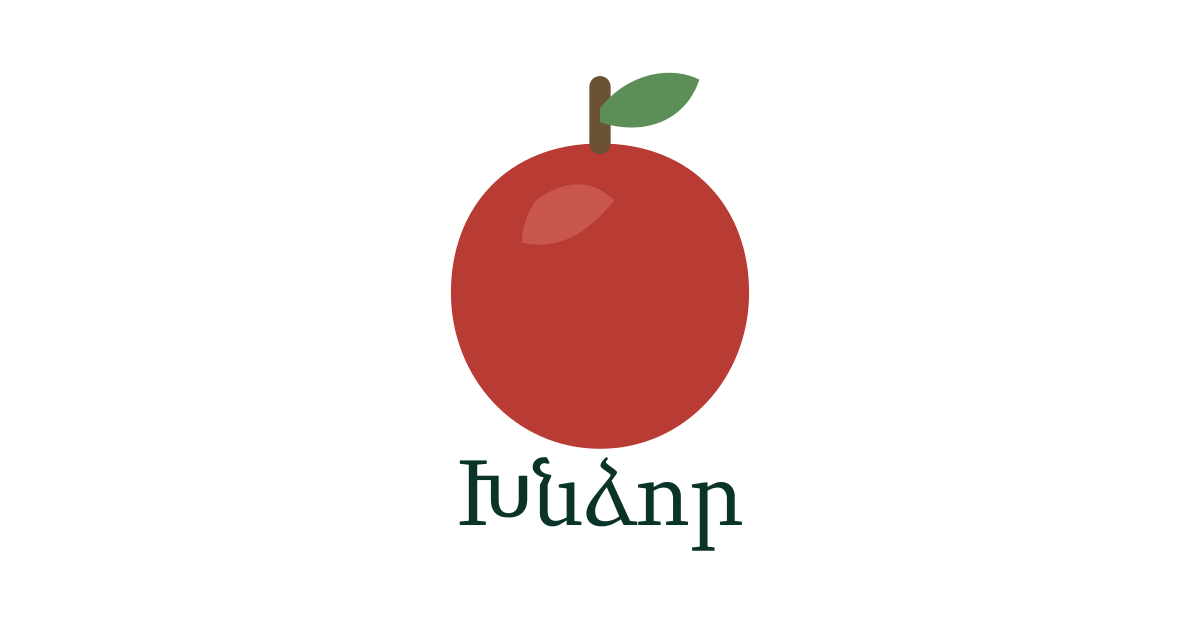
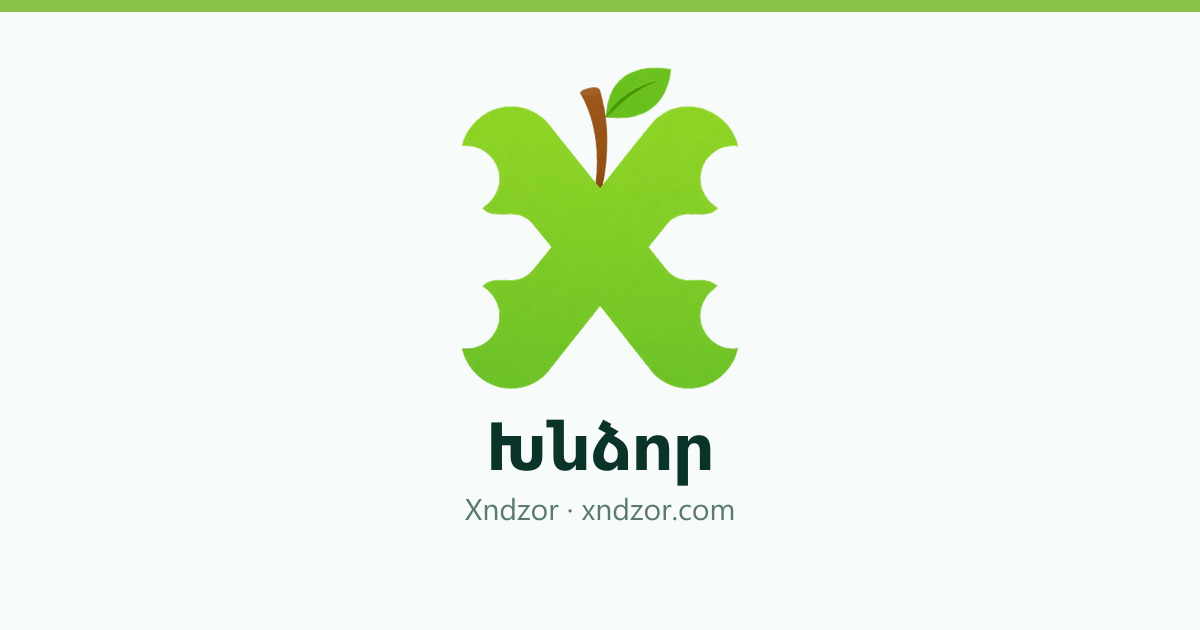
Replace remaining whole-apple brand marks and refresh OG share image.
Use the light-green bitten-X logo across chrome surfaces and regenerate og.png so Telegram/link previews match the new brand.

Changed region(s): [[0.37, 0.0905, 0.6475, 0.8746], [0.0, 0.0, 1.0, 0.0302]]

diff --git a/src/app/xndzor.css b/src/app/xndzor.css
@@ -307,9 +307,16 @@
 }
 
 .xndzor-apple {
-  font-size: 2rem;
-  display: block;
+  display: flex;
+  justify-content: center;
   margin-bottom: 0.35rem;
+}
+
+.xndzor-apple-logo {
+  width: 2.5rem;
+  height: 2.5rem;
+  object-fit: contain;
+  display: block;
 }
 
 .xndzor-hero-title {
@@ -1213,8 +1220,14 @@
   border-radius: 50%;
   background: rgba(255, 255, 255, 0.95);
   border: 2px solid color-mix(in srgb, var(--color-harvest-gold) 45%, transparent);
-  font-size: 1.1rem;
   box-shadow: 0 4px 14px rgba(10, 40, 35, 0.1);
+}
+
+.wtb-bridge-logo {
+  width: 1.55rem;
+  height: 1.55rem;
+  object-fit: contain;
+  display: block;
 }
 
 .home-trust-banner.is-in .wtb-bridge-core {
@@ -2008,8 +2021,14 @@
   height: 2.5rem;
   border-radius: 50%;
   background: rgba(244, 251, 248, 0.95);
-  font-size: 1.15rem;
   box-shadow: 0 4px 16px rgba(10, 40, 35, 0.25);
+}
+
+.gbb-hub-logo {
+  width: 1.55rem;
+  height: 1.55rem;
+  object-fit: contain;
+  display: block;
 }
 
 .gbb-savings {
@@ -6003,8 +6022,12 @@
   }
 
   .xndzor-apple {
-    font-size: 1.75rem;
     margin-bottom: 0.3rem;
+  }
+
+  .xndzor-apple-logo {
+    width: 2.15rem;
+    height: 2.15rem;
   }
 
   .xndzor-hero-title {

diff --git a/src/components/Header.tsx b/src/components/Header.tsx
@@ -4,7 +4,7 @@ import { useEffect, useState } from "react";
 import { useLocale, useTranslations } from "next-intl";
 import { Link, usePathname } from "@/i18n/navigation";
 import { signOut, useSession } from "next-auth/react";
-import Image from "next/image";
+import { BrandLogo } from "@/components/BrandLogo";
 import { CategoriesMegaMenu } from "@/components/CategoriesMegaMenu";
 import { LanguageDropdown } from "@/components/LanguageDropdown";
 import { ThemeToggle } from "@/components/ThemeToggle";
@@ -99,14 +99,7 @@ export function Header() {
         <div className="header-inner header-brand-row">
           <Link href="/" className="logo">
             <span className="logo-mark" aria-hidden>
-              <Image
-                src="/logo-xndzor.png"
-                alt=""
-                width={48}
-                height={48}
-                className="logo-mark-img"
-                priority
-              />
+              <BrandLogo size={48} className="logo-mark-img" priority />
             </span>
             <span className="logo-text">
               <strong>{brand("brand")}</strong>

diff --git a/src/components/BrandLogo.tsx b/src/components/BrandLogo.tsx
@@ -1,0 +1,33 @@
+import Image from "next/image";
+
+type BrandLogoProps = {
+  /** Pixel size for width/height (square). */
+  size?: number;
+  className?: string;
+  /** Decorative marks should hide from AT; keep false when the image is the sole brand label. */
+  decorative?: boolean;
+  priority?: boolean;
+};
+
+/**
+ * Shared Xndzor brand mark — light-green bitten-X apple (`/logo-xndzor.png`).
+ * Use for chrome/brand surfaces only; keep AgIcons product fruit icons separate.
+ */
+export function BrandLogo({
+  size = 40,
+  className,
+  decorative = true,
+  priority = false,
+}: BrandLogoProps) {
+  return (
+    <Image
+      src="/logo-xndzor.png"
+      alt={decorative ? "" : "Խնձոր"}
+      width={size}
+      height={size}
+      className={className ?? "brand-logo-img"}
+      priority={priority}
+      aria-hidden={decorative || undefined}
+    />
+  );
+}

diff --git a/src/components/Footer.tsx b/src/components/Footer.tsx
@@ -1,4 +1,5 @@
 import { getTranslations } from "next-intl/server";
+import { BrandLogo } from "@/components/BrandLogo";
 import { Link } from "@/i18n/navigation";
 import { PaymentBadges } from "@/components/PaymentBadges";
 import { BackToTop } from "@/components/BackToTop";
@@ -59,7 +60,8 @@ export async function Footer() {
           <div className="site-footer-grid">
             <div className="site-footer-col site-footer-brand">
               <Link href="/" className="site-footer-logo">
-                {brand("brand")}
+                <BrandLogo size={36} className="site-footer-logo-mark" />
+                <span className="site-footer-logo-text">{brand("brand")}</span>
               </Link>
               <p className="site-footer-tagline">{t("tagline")}</p>
               <p className="site-footer-sub">{brand("brandLatin")}</p>

diff --git a/src/app/globals.css b/src/app/globals.css
@@ -8091,10 +8091,24 @@ a.listing-card-title::after {
 }
 
 .site-footer-logo {
+  display: inline-flex;
+  align-items: center;
+  gap: 0.55rem;
   font-size: 1.35rem;
   font-weight: 700;
   color: var(--pine);
   text-decoration: none;
+}
+
+.site-footer-logo-mark {
+  width: 2.25rem;
+  height: 2.25rem;
+  object-fit: contain;
+  flex-shrink: 0;
+}
+
+.site-footer-logo-text {
+  line-height: 1.1;
 }
 
 .site-footer-tagline {
@@ -10293,6 +10307,21 @@ body.mega-menu-open {
   background: #0a3329;
   color: #f3f7f4;
   box-shadow: 0 10px 28px rgba(8, 28, 22, 0.35);
+}
+
+.pwa-install-mark {
+  flex-shrink: 0;
+  width: 2.25rem;
+  height: 2.25rem;
+  display: grid;
+  place-items: center;
+}
+
+.pwa-install-logo {
+  width: 2.25rem;
+  height: 2.25rem;
+  object-fit: contain;
+  display: block;
 }
 
 .pwa-install-copy {

diff --git a/src/components/xndzor/XndzorHero.tsx b/src/components/xndzor/XndzorHero.tsx
@@ -2,6 +2,7 @@
 
 import { useCallback, useState } from "react";
 import { useLocale, useTranslations } from "next-intl";
+import { BrandLogo } from "@/components/BrandLogo";
 import { Link } from "@/i18n/navigation";
 import type { SolutionBundle, SolutionMode } from "@/lib/xndzor-solution";
 import { SolutionBundleCard } from "./SolutionBundle";
@@ -125,7 +126,7 @@ export function XndzorHero({ greeting }: XndzorHeroProps) {
         <div className="xndzor-hero-inner">
         <div className="xndzor-hero-brand">
           <span className="xndzor-apple" aria-hidden>
-            🍎
+            <BrandLogo size={40} className="xndzor-apple-logo" />
           </span>
           <h1 className="xndzor-hero-title">{t("heroTitle")}</h1>
           <p className="xndzor-hero-tagline">{t("heroTagline")}</p>

diff --git a/src/components/xndzor/GroupBuyBanner.tsx b/src/components/xndzor/GroupBuyBanner.tsx
@@ -1,6 +1,7 @@
 "use client";
 
 import { useLocale, useTranslations } from "next-intl";
+import { BrandLogo } from "@/components/BrandLogo";
 import { Link } from "@/i18n/navigation";
 import { formatAmd } from "@/lib/utils";
 
@@ -61,7 +62,9 @@ export function GroupBuyBanner() {
             ))}
             <span className="gbb-hub">
               <span className="gbb-hub-ring" />
-              <span className="gbb-hub-core">🍎</span>
+              <span className="gbb-hub-core">
+                <BrandLogo size={28} className="gbb-hub-logo" />
+              </span>
             </span>
             <svg className="gbb-links" viewBox="0 0 200 160" fill="none">
               <path className="gbb-link gbb-link-0" d="M40 40 C70 55, 90 70, 100 90" />

diff --git a/src/components/PwaInstallPrompt.tsx b/src/components/PwaInstallPrompt.tsx
@@ -2,6 +2,7 @@
 
 import { useEffect, useState } from "react";
 import { useTranslations } from "next-intl";
+import { BrandLogo } from "@/components/BrandLogo";
 
 type BeforeInstallPromptEvent = Event & {
   prompt: () => Promise<void>;
@@ -132,6 +133,9 @@ export function PwaInstallPrompt() {
   return (
     <div className="pwa-install" role="region" aria-label={t("install")}>
       <div className="pwa-install-inner">
+        <span className="pwa-install-mark" aria-hidden>
+          <BrandLogo size={36} className="pwa-install-logo" />
+        </span>
         <div className="pwa-install-copy">
           <strong className="pwa-install-title">{t("install")}</strong>
           <p className="pwa-install-desc">{hint}</p>

diff --git a/src/components/xndzor/WelcomeTrustBanner.tsx b/src/components/xndzor/WelcomeTrustBanner.tsx
@@ -2,6 +2,7 @@
 
 import type { CSSProperties } from "react";
 import { useTranslations } from "next-intl";
+import { BrandLogo } from "@/components/BrandLogo";
 import { Link } from "@/i18n/navigation";
 
 const TRUST_BADGES = ["verified", "amd", "exclusive"] as const;
@@ -64,7 +65,9 @@ export function WelcomeTrustBanner() {
             aria-hidden
           >
             <span className="wtb-bridge-line" />
-            <span className="wtb-bridge-core">🍎</span>
+            <span className="wtb-bridge-core">
+              <BrandLogo size={28} className="wtb-bridge-logo" />
+            </span>
             <span className="wtb-bridge-line" />
           </span>
 
